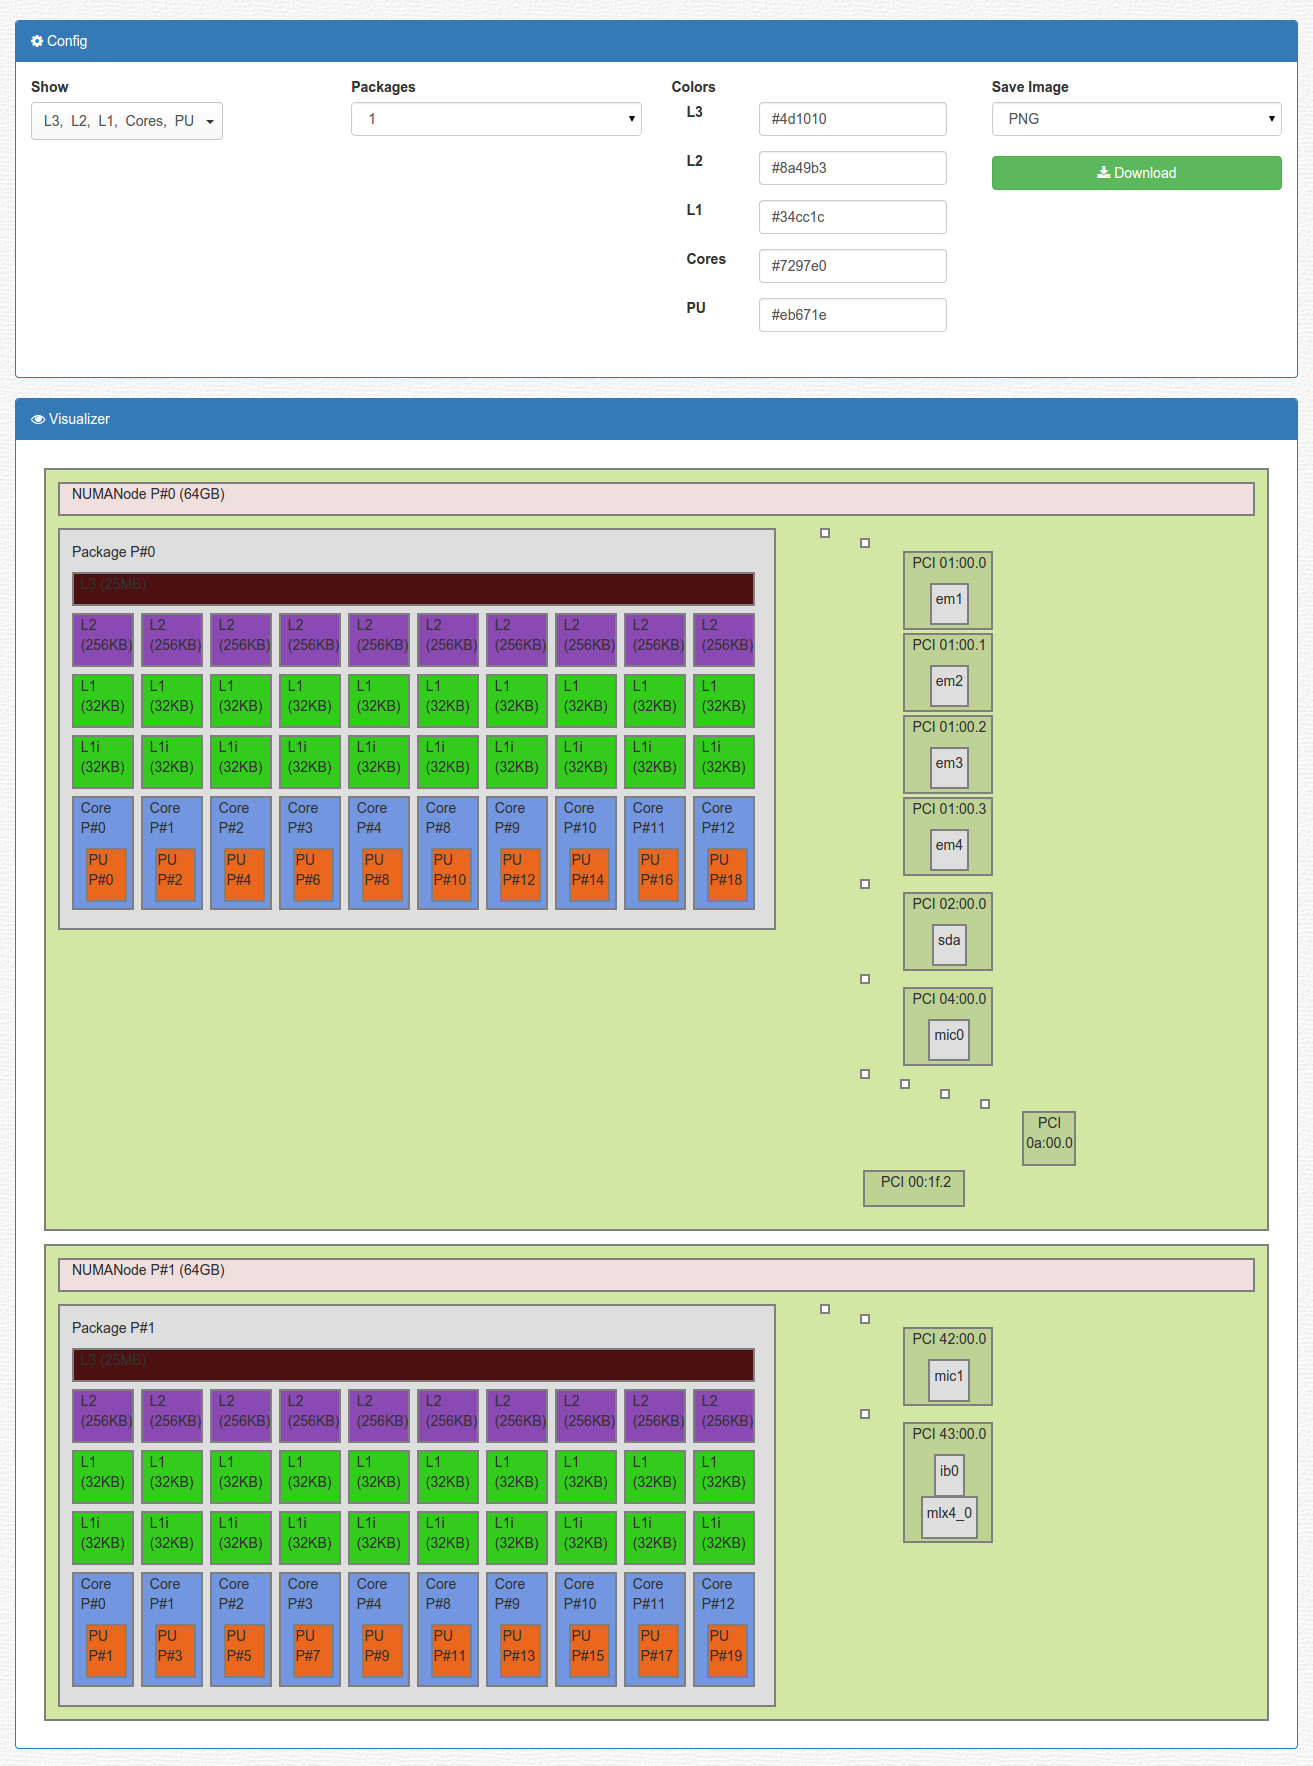
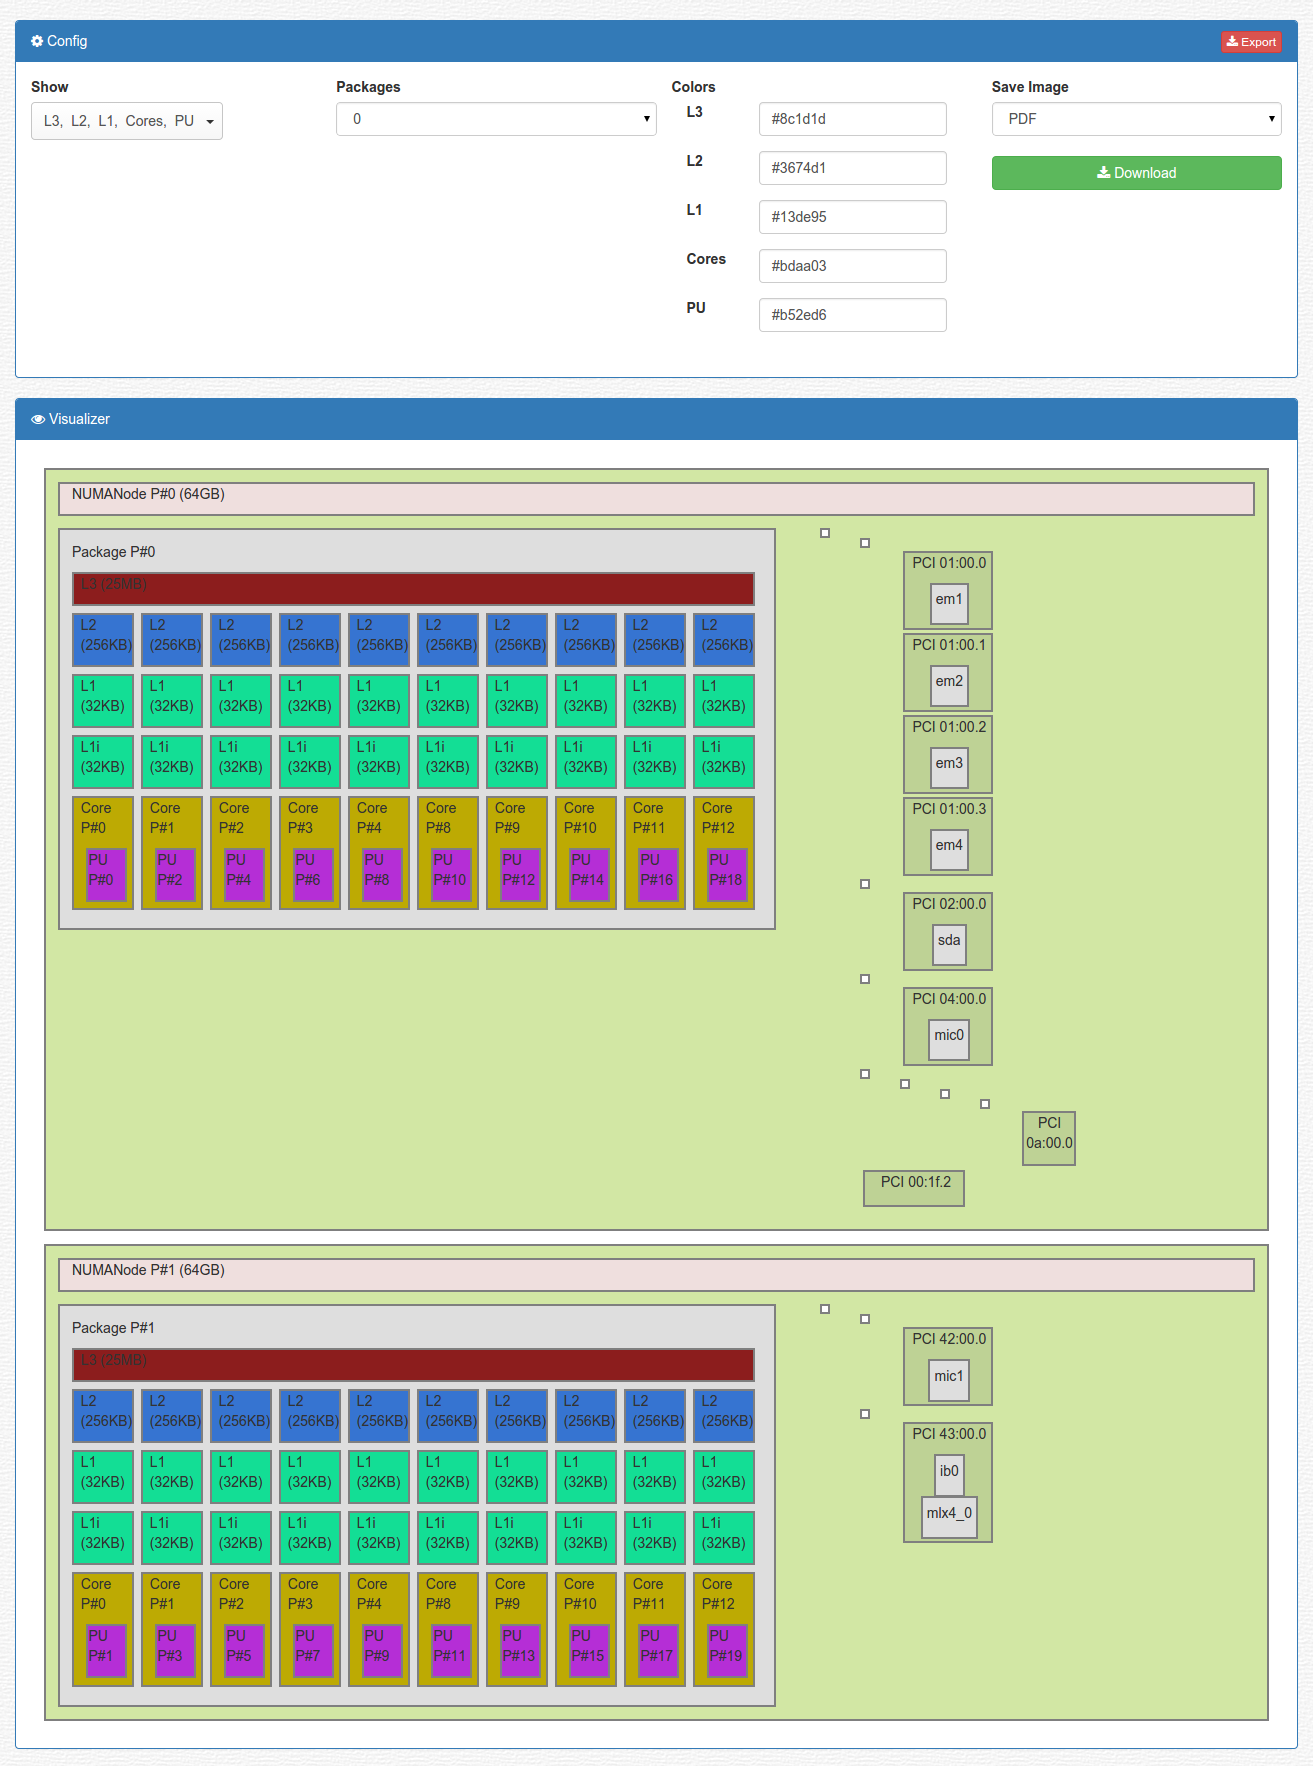
from now on user can export its own config as json file

diff --git a/app/scripts/controllers/visualizer.js b/app/scripts/controllers/visualizer.js
@@ -119,85 +119,6 @@ angular.module('myApp')
             }
         }
 
-        //Extraction des entités de type Bridge parent
-        /*$scope.extractBridges = function(datas, entity){
-            var bridge = new entityBridge(datas._type, datas._depth);
-
-            $scope.extractBridgesChild(datas.object, bridge);
-
-            entity.entitiesBridge.push(bridge);
-        }
-
-        //Extraction des entités de type Bridge enfant
-        $scope.extractBridgesChild = function(datas, bridge){
-            if(datas instanceof Array){
-                for(var i=0; i<datas.length; i++){
-                    if(datas[i]._type == "Bridge"){
-                        var bridgeChild = new entityBridge(datas[i]._type, datas[i]._depth);
-
-                        $scope.extractBridgesChild(datas[i].object, bridgeChild);
-
-                        bridge.entitiesBridge.push(bridgeChild);
-                    }
-                    else if(datas[i]._type == "PCIDev"){
-                        $scope.extractPciDev(datas[i], bridge);
-                    }
-                }
-            }
-            else if(datas._type == "Bridge"){
-                var bridgeChild = new entityBridge(datas._type, datas._depth);
-
-                $scope.extractBridgesChild(datas.object, bridgeChild);
-
-                bridge.entitiesBridge.push(bridgeChild);
-            }
-            else if(datas._type == "PCIDev"){
-                $scope.extractPciDev(datas, bridge);
-            }
-        }
-
-        //Extraction des entités de type PCIDev
-        $scope.extractPciDev = function(datas, bridge){
-
-            if(datas instanceof Array){
-                for(var i=0; i<datas.length; i++){
-                    var pci = new entityPciDev(datas[i]._type, datas[i]._pci_busid, datas[i].info);
-
-                    if(datas[i].object){
-                        $scope.extractOsDev(datas[i].object, pci);
-                    }
-
-                    bridge.entitiesPciDev.push(pci);
-                }
-            }
-            else{
-                var pci = new entityPciDev(datas._type, datas._pci_busid,  datas.info);
-
-                if(datas.object){
-                    $scope.extractOsDev(datas.object, pci);
-                }
-
-                bridge.entitiesPciDev.push(pci);
-            }
-        }
-
-        //Extraction des entités de type OSDev
-        $scope.extractOsDev = function(datas, pci){
-            if(datas instanceof Array){
-                for(var i=0; i<datas.length; i++){
-                    var os = new entityOsDev(datas[i]._type, datas[i]._name, datas[i].info);
-
-                    pci.entitiesOsDev.push(os);
-                }
-
-            }
-            else{
-                var os = new entityOsDev(datas._type, datas._name, datas.info);
-
-                pci.entitiesOsDev.push(os);
-            }
-        }*/
-
         $scope.extractEntities = function(){
             for(var i=0; i < $scope.jsonObj.object.length; i++){
 
@@ -520,6 +441,11 @@ angular.module('myApp')
             }
           ]
         };
+
+        $scope.exportConfig=function(){
+          var blob = new Blob([JSON.stringify($scope.userConfig)], {type: "application/json"});
+          saveAs(blob, "config.json");
+        }
 
 
         $scope.download = function(){

diff --git a/app/views/filter.html b/app/views/filter.html
@@ -4,6 +4,7 @@
     <div class="panel panel-primary">
       <div class="panel-heading">
         <i class="fa fa-cog"></i> Config
+        <a class="btn btn-danger btn-xs pull-right" ng-click="exportConfig()"><i class="fa fa-download"></i> Export</a>
       </div>
       <div class="panel-body">
         <div class="row">
